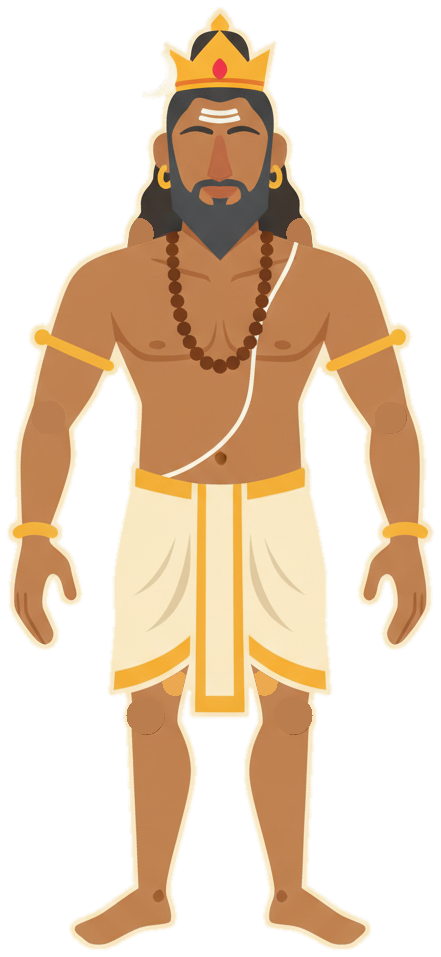
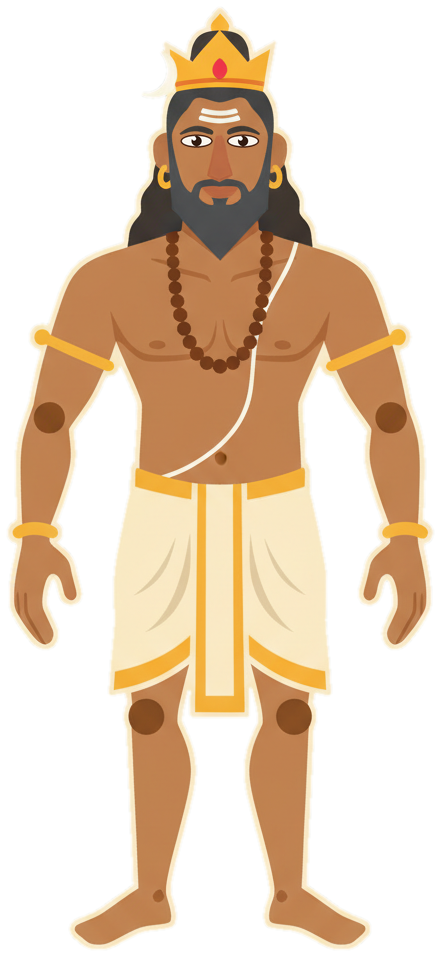
Add open eyes to Brahma and Daksha cut-outs; re-render EP3 library sheets
Claude-Session: https://claude.ai/code/session_01Ec4SCj5r735t7UeJwM29yv

diff --git a/studio/add_eyes.py b/studio/add_eyes.py
@@ -1,0 +1,18 @@
+"""Paint open eyes on Brahma (3 faces) and Daksha cut-outs (closed-line eyes -> open eyes under the brow line)."""
+from PIL import Image,ImageDraw
+import shutil,os
+S=6
+def eye(d,cx,cy,w,h,ir,look=0):
+    cx*=S;cy*=S;w*=S;h*=S;ir*=S
+    d.ellipse((cx-w/2,cy-h/2,cx+w/2,cy+h/2),fill=(250,246,238,255),outline=(70,36,22,255),width=int(1.6*S))
+    ix=cx+look*S;d.ellipse((ix-ir,cy-ir,ix+ir,cy+ir),fill=(48,26,16,255));d.ellipse((ix-ir*.9,cy-ir*.9,ix-ir*.1,cy-ir*.1),fill=(255,255,255,255))
+def run(name,eyes):
+    src=f'library/puppets/{name}/full_orig.png'
+    if not os.path.exists(src):src=f'library/puppets/{name}/full.png'
+    im=Image.open(src).convert('RGBA');W,H=im.size
+    big=Image.new('RGBA',(W*S,H*S),(0,0,0,0));d=ImageDraw.Draw(big)
+    for e in eyes:eye(d,*e)
+    ov=big.resize((W,H),Image.LANCZOS);out=Image.alpha_composite(im,ov)
+    out.save(f'library/puppets/{name}/full.png');out.save(f'library/pilot/assets/lib_{name}.png')
+run('brahma',[(391,174,26,12,4.6),(443,174,26,12,4.6),(334,168,19,10,3.8,1),(501,168,19,10,3.8,-1)])
+run('daksha',[(196.5,141,32,13,5),(243,141,32,13,5)])
